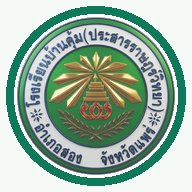
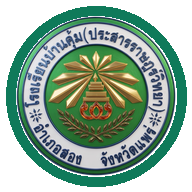
Add files via upload

diff --git a/index.html b/index.html
@@ -19,7 +19,7 @@
   <div class="app-shell">
     <header class="topbar">
       <a class="brand" href="#home" aria-label="Bankhum School Portal">
-        <img src="logo-bankhum.jpg" alt="โลโก้โรงเรียนบ้านคุ้ม">
+        <img src="logo-bankhum.png" alt="โลโก้โรงเรียนบ้านคุ้ม">
         <div>
           <strong>Bankhum School Portal</strong>
           <span>โรงเรียนบ้านคุ้ม (ประสารราษฎร์วิทยา)</span>
@@ -28,10 +28,10 @@
 
       <nav class="desktop-nav" aria-label="เมนูหลัก">
         <a href="#home">หน้าหลัก</a>
-        <a href="#dashboard">สถิติการใช้งาน</a>
         <a href="#management">บริหารงาน</a>
         <a href="#academic">วิชาการ</a>
         <a href="#student">นักเรียน</a>
+        <a href="#dashboard">สถิติการใช้งาน</a>
       </nav>
 
       <div class="top-actions">
@@ -49,7 +49,7 @@
 
         <div class="hero-main">
           <div class="hero-logo-wrap">
-            <img src="logo-bankhum.jpg" alt="ตราสัญลักษณ์โรงเรียนบ้านคุ้ม" class="hero-logo">
+            <img src="logo-bankhum.png" alt="ตราสัญลักษณ์โรงเรียนบ้านคุ้ม" class="hero-logo">
             <span class="status-dot" title="ระบบออนไลน์"></span>
           </div>
 
@@ -80,47 +80,6 @@
             <div class="metric-icon amber"><i data-lucide="mouse-pointer-click"></i></div>
             <div><strong>1 Click</strong><span>เข้าถึงระบบ</span></div>
           </div>
-        </div>
-      </section>
-
-      <section class="analytics-section" id="dashboard">
-        <div class="analytics-heading">
-          <div>
-            <span class="section-kicker">USAGE DASHBOARD</span>
-            <h2><i data-lucide="chart-no-axes-combined"></i> สถิติการใช้งานระบบ</h2>
-            <p>สรุปจำนวนครั้งที่เปิดแต่ละระบบจากอุปกรณ์และเบราว์เซอร์นี้</p>
-          </div>
-          <button id="resetStats" class="stats-reset" type="button"><i data-lucide="rotate-ccw"></i> ล้างสถิติ</button>
-        </div>
-
-        <div class="analytics-metrics">
-          <div class="analytics-metric">
-            <div class="analytics-icon green"><i data-lucide="mouse-pointer-click"></i></div>
-            <div><span>การเปิดทั้งหมด</span><strong id="totalClicks">0</strong><small>ครั้ง</small></div>
-          </div>
-          <div class="analytics-metric">
-            <div class="analytics-icon blue"><i data-lucide="calendar-days"></i></div>
-            <div><span>การเปิดวันนี้</span><strong id="todayClicks">0</strong><small>ครั้ง</small></div>
-          </div>
-          <div class="analytics-metric">
-            <div class="analytics-icon amber"><i data-lucide="trophy"></i></div>
-            <div><span>ระบบที่ใช้บ่อยสุด</span><strong id="topSystem">-</strong><small id="topSystemCount">ยังไม่มีข้อมูล</small></div>
-          </div>
-          <div class="analytics-metric">
-            <div class="analytics-icon violet"><i data-lucide="clock"></i></div>
-            <div><span>ใช้งานล่าสุด</span><strong id="lastUsed">-</strong><small id="lastUsedTime">ยังไม่มีข้อมูล</small></div>
-          </div>
-        </div>
-
-        <div class="analytics-panel">
-          <div class="analytics-panel-head">
-            <div>
-              <h3>การใช้งานแต่ละระบบ</h3>
-              <p>แถบยาวแสดงสัดส่วนเมื่อเทียบกับระบบที่ถูกเปิดมากที่สุด</p>
-            </div>
-            <span class="local-badge"><i data-lucide="hard-drive"></i> Local Stats</span>
-          </div>
-          <div id="usageChart" class="usage-chart" aria-live="polite"></div>
         </div>
       </section>
 
@@ -267,12 +226,54 @@
         <p>ลองเปลี่ยนคำค้น หรือเลือกหมวดหมู่อื่น</p>
         <button id="resetFilter" type="button">แสดงระบบทั้งหมด</button>
       </section>
+
+      <section class="analytics-section" id="dashboard">
+        <div class="analytics-heading">
+          <div>
+            <span class="section-kicker">USAGE DASHBOARD</span>
+            <h2><i data-lucide="chart-no-axes-combined"></i> สถิติการใช้งานระบบ</h2>
+            <p>สรุปจำนวนครั้งที่เปิดแต่ละระบบจากอุปกรณ์และเบราว์เซอร์นี้</p>
+          </div>
+          <button id="resetStats" class="stats-reset" type="button"><i data-lucide="rotate-ccw"></i> ล้างสถิติ</button>
+        </div>
+
+        <div class="analytics-metrics">
+          <div class="analytics-metric">
+            <div class="analytics-icon green"><i data-lucide="mouse-pointer-click"></i></div>
+            <div><span>การเปิดทั้งหมด</span><strong id="totalClicks">0</strong><small>ครั้ง</small></div>
+          </div>
+          <div class="analytics-metric">
+            <div class="analytics-icon blue"><i data-lucide="calendar-days"></i></div>
+            <div><span>การเปิดวันนี้</span><strong id="todayClicks">0</strong><small>ครั้ง</small></div>
+          </div>
+          <div class="analytics-metric">
+            <div class="analytics-icon amber"><i data-lucide="trophy"></i></div>
+            <div><span>ระบบที่ใช้บ่อยสุด</span><strong id="topSystem">-</strong><small id="topSystemCount">ยังไม่มีข้อมูล</small></div>
+          </div>
+          <div class="analytics-metric">
+            <div class="analytics-icon violet"><i data-lucide="clock"></i></div>
+            <div><span>ใช้งานล่าสุด</span><strong id="lastUsed">-</strong><small id="lastUsedTime">ยังไม่มีข้อมูล</small></div>
+          </div>
+        </div>
+
+        <div class="analytics-panel">
+          <div class="analytics-panel-head">
+            <div>
+              <h3>การใช้งานแต่ละระบบ</h3>
+              <p>แถบยาวแสดงสัดส่วนเมื่อเทียบกับระบบที่ถูกเปิดมากที่สุด</p>
+            </div>
+            <span class="local-badge"><i data-lucide="hard-drive"></i> Local Stats</span>
+          </div>
+          <div id="usageChart" class="usage-chart" aria-live="polite"></div>
+        </div>
+      </section>
+
     </main>
 
     <footer class="footer">
       <div class="footer-main">
         <div class="footer-brand">
-          <img src="logo-bankhum.jpg" alt="โลโก้โรงเรียนบ้านคุ้ม">
+          <img src="logo-bankhum.png" alt="โลโก้โรงเรียนบ้านคุ้ม">
           <div>
             <strong>โรงเรียนบ้านคุ้ม (ประสารราษฎร์วิทยา)</strong>
             <span>Bankhum School Portal · ศูนย์รวมระบบและบริการออนไลน์ของโรงเรียน</span>
@@ -281,13 +282,13 @@
 
         <div class="footer-social" aria-label="ช่องทางโซเชียลมีเดียของโรงเรียน">
           <a href="https://www.facebook.com/bkspage" target="_blank" rel="noopener noreferrer" aria-label="Facebook โรงเรียนบ้านคุ้ม">
-            <i data-lucide="facebook"></i><span>Facebook</span>
+            <img src="facebook-logo.jpg" alt="Facebook logo"><span>Facebook</span>
           </a>
           <a href="https://www.youtube.com/@bankhumstudiochannel5338" target="_blank" rel="noopener noreferrer" aria-label="YouTube Bankhum Studio">
-            <i data-lucide="youtube"></i><span>YouTube</span>
+            <img src="youtube-logo.jpg" alt="YouTube logo"><span>YouTube</span>
           </a>
           <a href="https://www.tiktok.com/@bankhumschool?is_from_webapp=1&sender_device=pc" target="_blank" rel="noopener noreferrer" aria-label="TikTok โรงเรียนบ้านคุ้ม">
-            <i data-lucide="music-2"></i><span>TikTok</span>
+            <img src="tiktok-logo.png" alt="TikTok logo"><span>TikTok</span>
           </a>
         </div>
       </div>
@@ -309,10 +310,10 @@
 
   <nav class="mobile-nav" aria-label="เมนูมือถือ">
     <a href="#home" class="mobile-nav-item active"><i data-lucide="home"></i><span>หน้าหลัก</span></a>
-    <a href="#dashboard" class="mobile-nav-item"><i data-lucide="chart-no-axes-combined"></i><span>สถิติ</span></a>
     <a href="#management" class="mobile-nav-item"><i data-lucide="building-2"></i><span>บริหาร</span></a>
     <a href="#academic" class="mobile-nav-item"><i data-lucide="book-open"></i><span>วิชาการ</span></a>
     <a href="#student" class="mobile-nav-item"><i data-lucide="graduation-cap"></i><span>นักเรียน</span></a>
+    <a href="#dashboard" class="mobile-nav-item"><i data-lucide="chart-no-axes-combined"></i><span>สถิติ</span></a>
   </nav>
 
   <div id="toast" class="toast" role="status" aria-live="polite"></div>

diff --git a/style.css b/style.css
@@ -14,12 +14,12 @@ body{font-family:"Kanit",system-ui,-apple-system,"Segoe UI",sans-serif;color:var
   linear-gradient(180deg,#fbfefd 0%,#f2f8f5 60%,#edf5f1 100%);min-height:100vh}
 a{color:inherit}.app-shell{width:min(1200px,92%);margin:0 auto;padding:20px 0 70px}
 .topbar{position:sticky;top:12px;z-index:50;display:flex;align-items:center;justify-content:space-between;gap:20px;padding:12px 14px 12px 12px;margin-bottom:20px;border:1px solid rgba(225,236,230,.9);border-radius:20px;background:rgba(255,255,255,.85);box-shadow:0 10px 30px rgba(25,68,49,.07);backdrop-filter:blur(18px)}
-.brand{display:flex;align-items:center;gap:11px;text-decoration:none;min-width:0}.brand img{width:46px;height:46px;object-fit:cover;border-radius:50%;border:2px solid #d8ebe1}.brand div{min-width:0}.brand strong{display:block;font-size:15px;line-height:1.15}.brand span{display:block;color:var(--muted);font-size:11px;white-space:nowrap;overflow:hidden;text-overflow:ellipsis;max-width:270px}
+.brand{display:flex;align-items:center;gap:11px;text-decoration:none;min-width:0}.brand img{width:46px;height:46px;object-fit:contain;padding:2px;border-radius:50%;border:2px solid #d8ebe1;background:#fff;box-shadow:0 6px 14px rgba(25,68,49,.06)}.brand div{min-width:0}.brand strong{display:block;font-size:15px;line-height:1.15}.brand span{display:block;color:var(--muted);font-size:11px;white-space:nowrap;overflow:hidden;text-overflow:ellipsis;max-width:270px}
 .desktop-nav{display:flex;align-items:center;gap:5px}.desktop-nav a{padding:9px 12px;border-radius:12px;text-decoration:none;font-size:13px;color:#526676;transition:.2s}.desktop-nav a:hover{color:var(--green);background:var(--green-soft)}
 .top-actions{display:flex;gap:8px}.website-btn,.ghost-btn{height:42px;display:inline-flex;align-items:center;justify-content:center;gap:7px;padding:0 14px;border-radius:13px;border:0;font:500 13px "Kanit",sans-serif;cursor:pointer;text-decoration:none}.website-btn{color:#fff;background:linear-gradient(135deg,var(--green),#21a276);box-shadow:0 8px 18px rgba(15,122,90,.18)}.ghost-btn{color:var(--green);background:var(--green-soft)}.website-btn svg,.ghost-btn svg{width:17px;height:17px}
 .hero{position:relative;overflow:hidden;display:grid;grid-template-columns:minmax(0,1fr) 310px;gap:26px;padding:34px;border:1px solid var(--border);border-radius:var(--radius-xl);background:linear-gradient(135deg,rgba(255,255,255,.98),rgba(244,251,247,.95));box-shadow:var(--shadow)}
 .hero-glow{position:absolute;border-radius:50%;pointer-events:none;filter:blur(14px)}.glow-1{width:320px;height:320px;right:-90px;top:-120px;background:rgba(15,122,90,.11)}.glow-2{width:260px;height:260px;left:36%;bottom:-180px;background:rgba(47,128,237,.08)}
-.hero-main{position:relative;z-index:2;display:flex;align-items:center;gap:24px}.hero-logo-wrap{position:relative;flex:0 0 auto}.hero-logo{width:125px;height:125px;border-radius:50%;object-fit:cover;border:5px solid #fff;box-shadow:0 14px 34px rgba(25,68,49,.15)}.status-dot{position:absolute;right:6px;bottom:9px;width:17px;height:17px;border-radius:50%;background:#2bc47d;border:4px solid #fff;box-shadow:0 0 0 3px rgba(43,196,125,.12)}
+.hero-main{position:relative;z-index:2;display:flex;align-items:center;gap:24px}.hero-logo-wrap{position:relative;flex:0 0 auto}.hero-logo{width:125px;height:125px;padding:4px;border-radius:50%;object-fit:contain;background:#fff;border:5px solid #fff;box-shadow:0 14px 34px rgba(25,68,49,.15)}.status-dot{position:absolute;right:6px;bottom:9px;width:17px;height:17px;border-radius:50%;background:#2bc47d;border:4px solid #fff;box-shadow:0 0 0 3px rgba(43,196,125,.12)}
 .eyebrow{display:inline-flex;align-items:center;gap:6px;margin-bottom:9px;padding:6px 10px;border-radius:999px;background:var(--green-soft);color:var(--green);font-size:11px;font-weight:600;letter-spacing:.04em}.eyebrow svg{width:14px;height:14px}.hero-copy h1{font-size:clamp(31px,4.3vw,48px);line-height:1.08;letter-spacing:-.03em}.hero-copy h1 span{color:var(--green)}.hero-copy p{max-width:670px;margin-top:10px;color:var(--muted);font-size:14px;line-height:1.75}.hero-quick-actions{display:flex;flex-wrap:wrap;gap:10px;margin-top:18px}.primary-hero-btn,.secondary-hero-btn{display:inline-flex;align-items:center;gap:8px;padding:11px 15px;border-radius:14px;text-decoration:none;font-size:13px;font-weight:500}.primary-hero-btn{background:var(--green);color:#fff;box-shadow:0 8px 18px rgba(15,122,90,.18)}.secondary-hero-btn{color:var(--green);background:#fff;border:1px solid #dcece4}.primary-hero-btn svg,.secondary-hero-btn svg{width:17px;height:17px}
 .hero-metrics{position:relative;z-index:2;display:grid;gap:10px}.metric{display:flex;align-items:center;gap:12px;padding:14px;border-radius:18px;border:1px solid #e4eee8;background:rgba(255,255,255,.78)}.metric-icon{width:42px;height:42px;display:grid;place-items:center;border-radius:13px}.metric-icon svg{width:20px;height:20px}.metric-icon.green{color:var(--green);background:var(--green-soft)}.metric-icon.blue{color:var(--blue);background:var(--blue-soft)}.metric-icon.amber{color:var(--amber);background:var(--amber-soft)}.metric strong{display:block;font-size:18px;line-height:1.05}.metric span{display:block;margin-top:3px;color:var(--muted);font-size:11px}
 .tools-panel{display:flex;align-items:center;justify-content:space-between;gap:16px;margin:25px 0 34px}.search-box{position:relative;flex:1;max-width:620px}.search-box>svg{position:absolute;left:16px;top:50%;width:19px;height:19px;transform:translateY(-50%);color:#789087}.search-box input{width:100%;height:50px;padding:0 48px 0 46px;border:1px solid var(--border);border-radius:16px;outline:none;background:rgba(255,255,255,.92);box-shadow:0 8px 24px rgba(25,68,49,.05);font:400 14px "Kanit",sans-serif;color:var(--text);transition:.2s}.search-box input:focus{border-color:#bcd9cb;box-shadow:0 0 0 4px rgba(15,122,90,.07)}.clear-search{position:absolute;right:10px;top:50%;width:32px;height:32px;transform:translateY(-50%);display:grid;place-items:center;border:0;border-radius:10px;background:#f0f5f2;color:#70857a;cursor:pointer}.clear-search svg{width:16px;height:16px}
@@ -54,11 +54,11 @@ a{color:inherit}.app-shell{width:min(1200px,92%);margin:0 auto;padding:20px 0 70
 .footer{margin-top:52px;padding:28px 0 14px;border-top:1px solid var(--border);text-align:left;color:var(--muted)}
 .footer-main{display:flex;align-items:center;justify-content:space-between;gap:22px;padding:0 4px 18px}
 .footer-brand{display:flex;align-items:center;justify-content:flex-start;gap:12px;margin:0}
-.footer-brand img{width:52px;height:52px;border-radius:50%;object-fit:cover;border:3px solid var(--green);padding:2px;background:#fff;box-shadow:0 7px 18px rgba(15,122,90,.12)}
+.footer-brand img{width:52px;height:52px;border-radius:50%;object-fit:contain;border:3px solid var(--green);padding:2px;background:#fff;box-shadow:0 7px 18px rgba(15,122,90,.12)}
 .footer-brand strong{display:block;color:var(--text);font-size:14px}.footer-brand span{display:block;margin-top:2px;font-size:10px;line-height:1.55}
 .footer-social{display:flex;flex-wrap:wrap;justify-content:flex-end;gap:8px}
 .footer-social a{height:38px;display:inline-flex;align-items:center;justify-content:center;gap:7px;padding:0 12px;border:1px solid #cfe5d9;border-radius:12px;background:#f4faf6;color:var(--green-dark);font-size:11px;font-weight:500;text-decoration:none;transition:.2s}
-.footer-social a svg{width:16px;height:16px}.footer-social a:hover{color:#fff;background:var(--green);border-color:var(--green);transform:translateY(-2px)}
+.footer-social a img{width:18px;height:18px;object-fit:contain;border-radius:4px;display:block}.footer-social a:hover{color:#fff;background:var(--green);border-color:var(--green);transform:translateY(-2px)}
 .developer-credit{display:flex;align-items:center;justify-content:center;gap:10px;padding:14px 16px;border:1px solid #dcece4;border-radius:16px;background:linear-gradient(135deg,#f7fbf9,#eef8f3);text-align:center}
 .developer-credit>svg{width:20px;height:20px;color:var(--green);flex:0 0 auto}.developer-credit span{display:block;font-size:9px;color:#83958c}.developer-credit strong{display:block;color:var(--green-dark);font-size:13px}.developer-credit small{display:block;margin-top:1px;font-size:9px;color:#71847a}
 .footer-bottom{text-align:center;padding-top:13px}.footer-bottom small{font-size:9px;color:#96a49d}

diff --git a/sw.js b/sw.js
@@ -1,5 +1,19 @@
-const CACHE = 'bankhum-portal-v4';
-const ASSETS = ['./','./index.html','./style.css','./app.js','./logo-bankhum.jpg','./icon-192.png','./icon-512.png','./favicon-32.png','./favicon.ico','./manifest.webmanifest'];
+const CACHE = 'bankhum-portal-v5';
+const ASSETS = [
+  './',
+  './index.html',
+  './style.css',
+  './app.js',
+  './logo-bankhum.png',
+  './facebook-logo.jpg',
+  './youtube-logo.jpg',
+  './tiktok-logo.png',
+  './icon-192.png',
+  './icon-512.png',
+  './favicon-32.png',
+  './favicon.ico',
+  './manifest.webmanifest'
+];
 self.addEventListener('install', event => {
   event.waitUntil(caches.open(CACHE).then(cache => cache.addAll(ASSETS)));
   self.skipWaiting();

diff --git a/app.js b/app.js
@@ -175,7 +175,7 @@ resetStats?.addEventListener('click', () => {
 
 // Mobile navigation highlight
 const mobileLinks = [...document.querySelectorAll('.mobile-nav-item')];
-const targets = ['home','dashboard','management','academic','student']
+const targets = ['home','management','academic','student','dashboard']
   .map(id => document.getElementById(id))
   .filter(Boolean);
 
